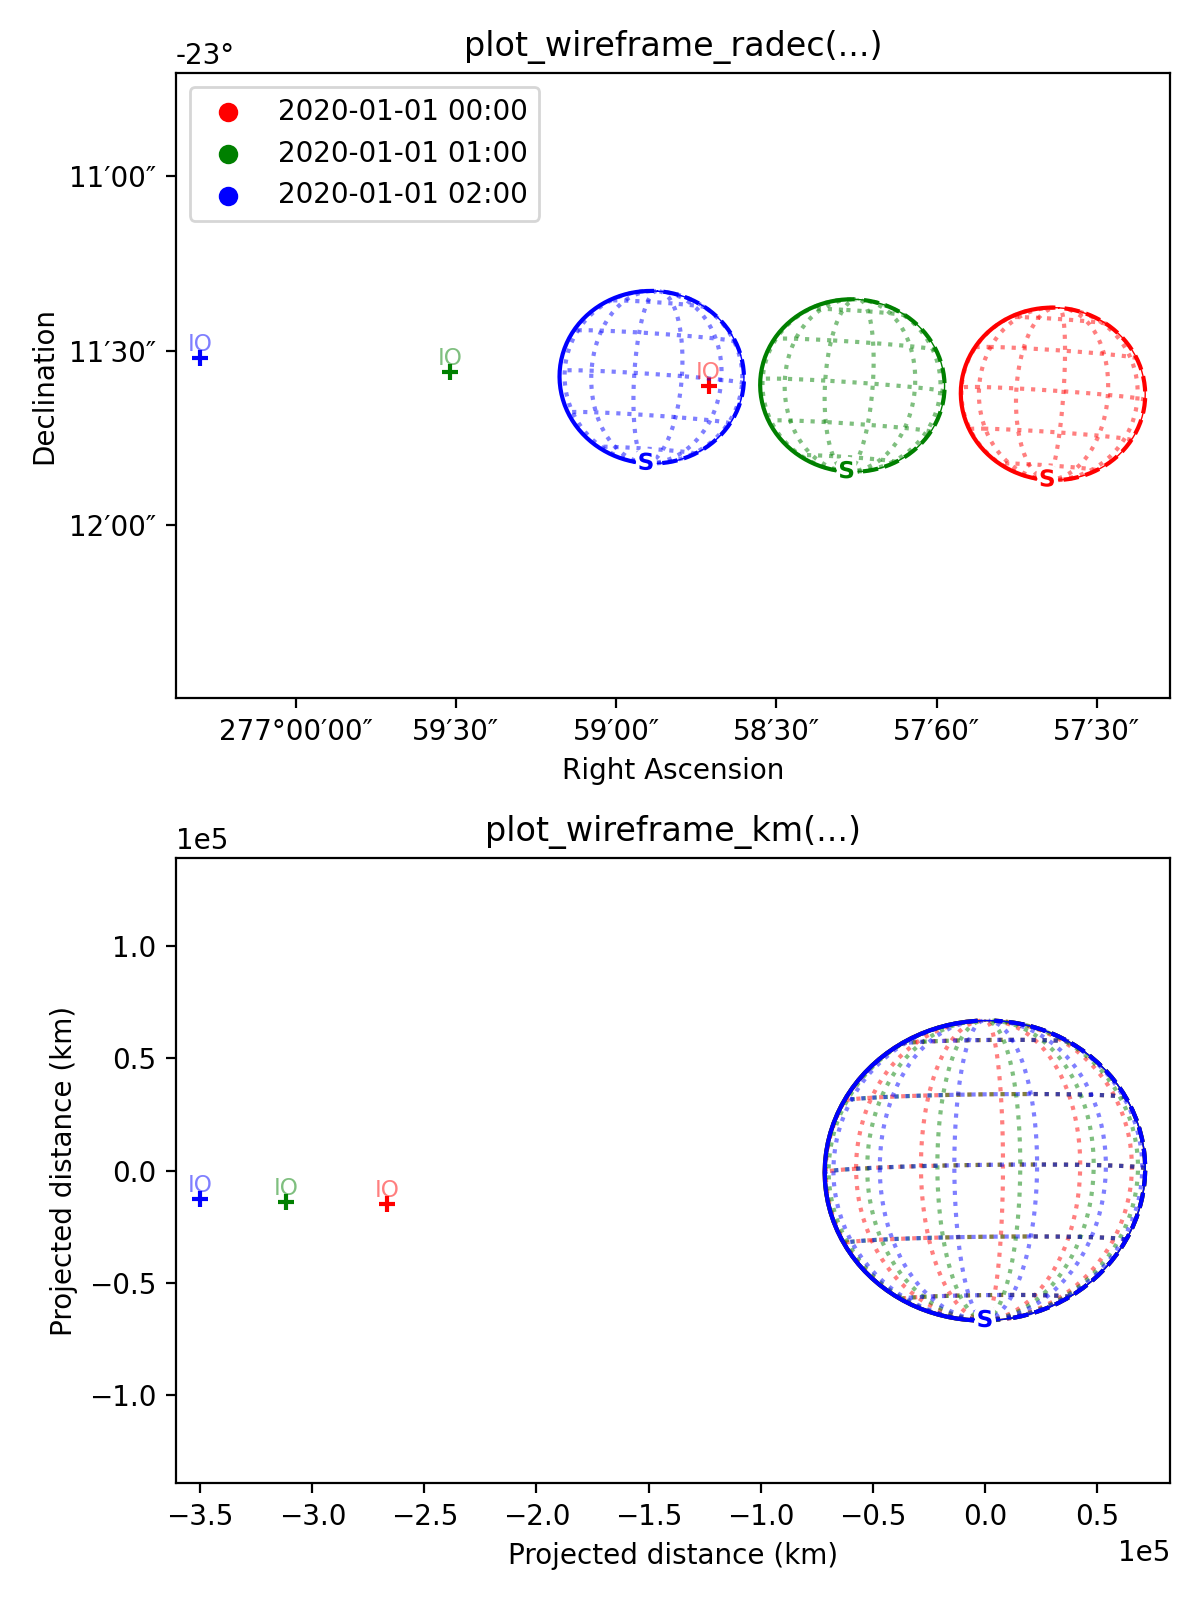
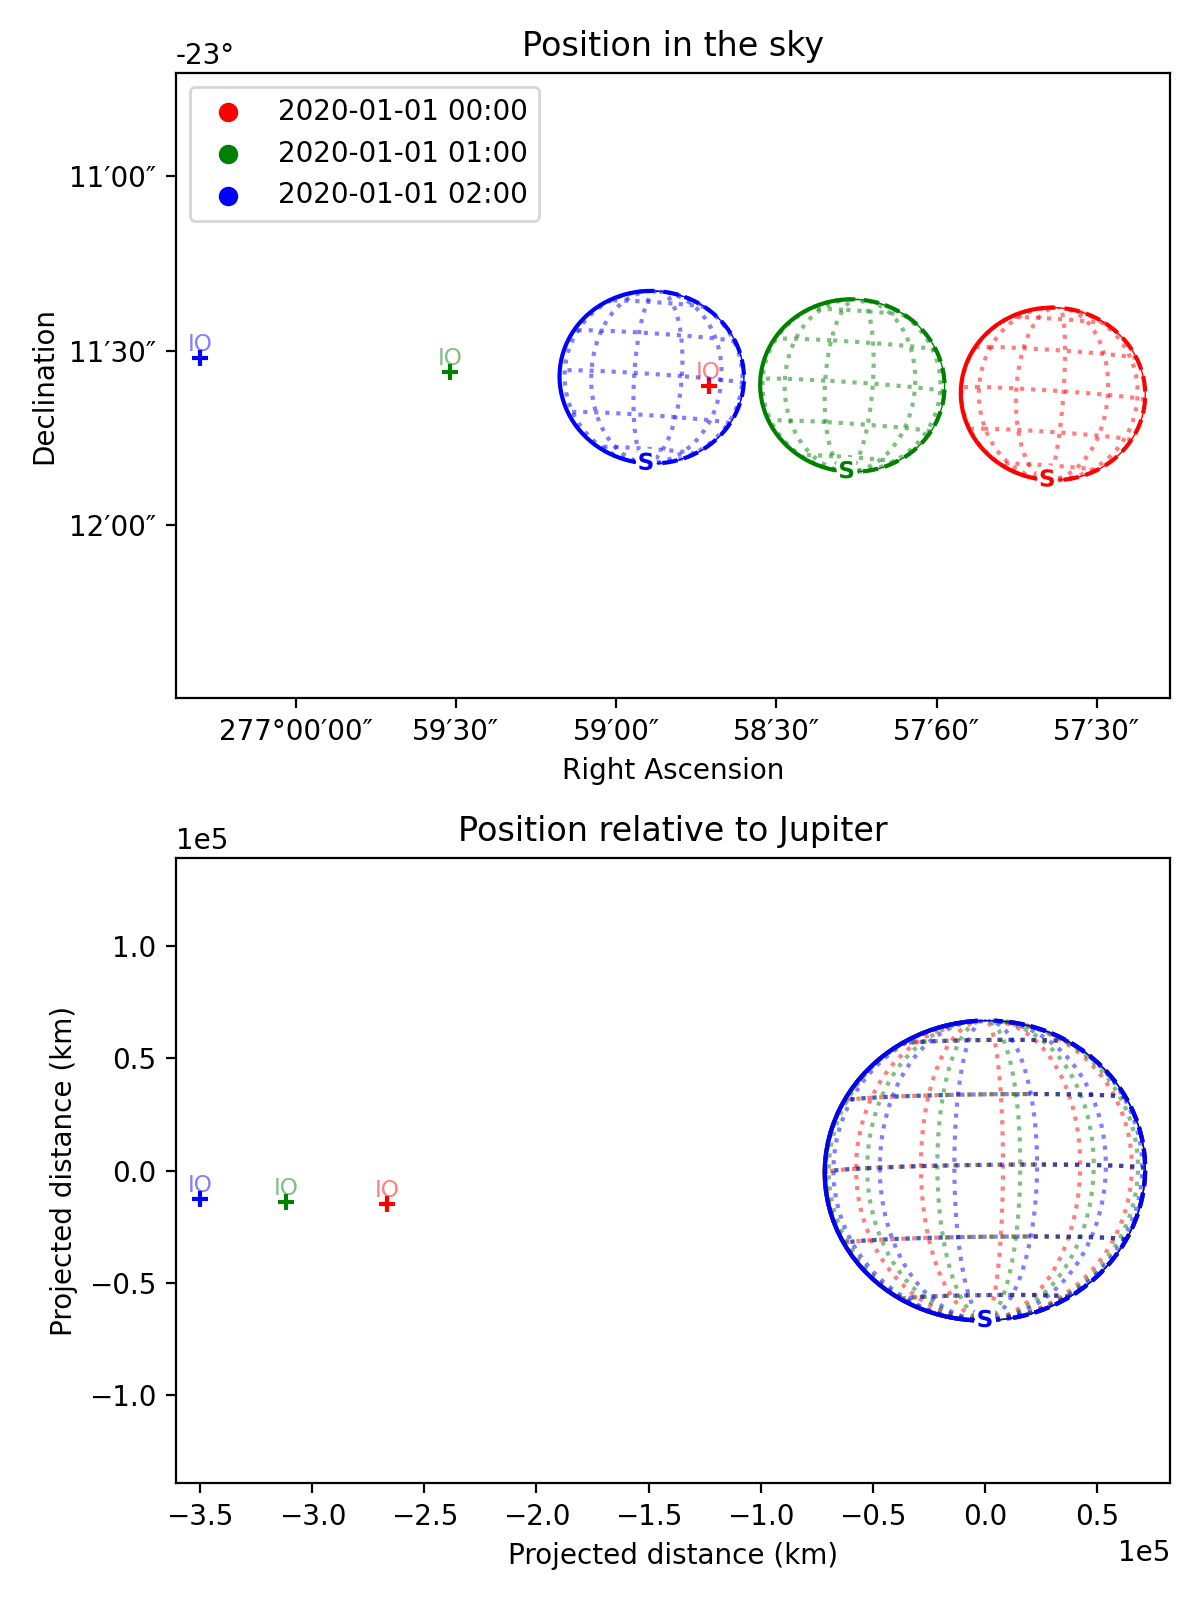
Documentation
Closes #8

Changed region(s): [[0.37, 0.5, 0.74, 0.5312], [0.4008, 0.0, 0.6783, 0.0312]]

diff --git a/examples/general_python_api.py b/examples/general_python_api.py
@@ -1,14 +1,21 @@
 #!/usr/bin/env python3
 # -*- coding: utf-8 -*-
-"""Simple example script"""
+"""
+Script used to generate example plots on 
+https://planetmapper.readthedocs.io/en/latest/general_python_api.html
+"""
 import os
 import matplotlib.pyplot as plt
+import numpy as np
 import planetmapper
 import planetmapper.data_loader
 
 PLOT_DIRECTORY = '../docs/images'
 
-if False:
+# Code for each plot is wrapped in an `if True` block for easy organisation and toggling
+
+
+if True:
     body = planetmapper.Body('saturn', '2020-01-01')
     fig, ax = plt.subplots(figsize=(6, 4), dpi=200)
     body.plot_wireframe_radec(ax)
@@ -17,7 +24,7 @@ if False:
     plt.close(fig)
 
 
-if False:
+if True:
     body = planetmapper.Body('neptune', '2020-01-01')
 
     # Add Triton to any wireframe plots
@@ -54,12 +61,44 @@ if True:
         body.plot_wireframe_km(ax_km, color=c)
 
         # Plot some blank data with the correct colour to go on the legend
-        ax_radec.scatter(float('nan'), float('nan'), color=c, label=date)
+        ax_radec.scatter(np.nan, np.nan, color=c, label=date)
+
     ax_radec.legend(loc='upper left')
 
-    ax_radec.set_title('plot_wireframe_radec(...)')
-    ax_km.set_title('plot_wireframe_km(...)')
+    ax_radec.set_title('Position in the sky')
+    ax_km.set_title('Position relative to Jupiter')
 
     fig.tight_layout()
     fig.savefig(os.path.join(PLOT_DIRECTORY, 'jupiter_wireframes.png'))
+    plt.close(fig)
+
+
+if True:
+    observation = planetmapper.Observation('../data/europa.fits.gz')
+
+    # Set the disc position
+    observation.set_plate_scale_arcsec(12.25e-3)
+    observation.set_disc_params(x0=110, y0=104)
+
+    fig, ax = plt.subplots(figsize=(6, 5), dpi=200)
+    observation.plot_backplane_img('LON-GRAPHIC', ax=ax)
+
+    fig.tight_layout()
+    fig.savefig(os.path.join(PLOT_DIRECTORY, 'europa_backplane.png'))
+    plt.close(fig)
+
+if True:
+    # Create an object representing how Jupiter would appear in a 50x50 pixel image
+    # taken by JWST at a specific time
+    body = planetmapper.BodyXY('jupiter', utc='2024-01-01', observer='JWST', sz=50)
+    body.set_disc_params(x0=25, y0=25, r0=20)
+
+    fig, ax = plt.subplots(figsize=(6, 5), dpi=200)
+
+    body.plot_backplane_img('RADIAL-VELOCITY', ax=ax)
+
+    radial_velocities = body.get_backplane_img('RADIAL-VELOCITY')
+    print(f'Average radial velocity: {np.nanmean(radial_velocities):.2f} km/s')
+    fig.tight_layout()
+    fig.savefig(os.path.join(PLOT_DIRECTORY, 'jupiter_backplane.png'))
     plt.close(fig)

diff --git a/tests/test_outputs.py b/tests/test_outputs.py
@@ -48,7 +48,7 @@ class TestBody(unittest.TestCase):
 
     def test_illumination(self):
         output = self.obj.illumination_angles_from_lonlat(1, 2)
-        expected = (0.0033531475561347644, 0.009694273924622665, 0.006341366070869211)
+        expected = (11.007734089805565, 31.824423998504553, 20.81747680519847)
         self.assertTrue(np.allclose(output, expected))
         self.assertTrue(self.obj.test_if_lonlat_illuminated(5, 6))
         self.assertFalse(self.obj.test_if_lonlat_illuminated(5, 180))

diff --git a/planetmapper/body.py b/planetmapper/body.py
@@ -759,7 +759,7 @@ class Body(SpiceBase):
         phase, incdnc, emissn = self._illumination_angles_from_targvec_radians(
             self.lonlat2targvec(lon, lat)
         )
-        return np.deg2rad(phase), np.deg2rad(incdnc), np.deg2rad(emissn)
+        return np.rad2deg(phase), np.rad2deg(incdnc), np.rad2deg(emissn)
 
     def _azimuth_angle_from_gie_radians(self, phase_radians: Numeric,incidence_radians:Numeric, emission_radians:Numeric) -> Numeric:
         # Based on Henrik's code at:

diff --git a/docs/general_python_api.rst b/docs/general_python_api.rst
@@ -2,15 +2,45 @@ General Python API
 ******************
 This page shows some simple examples of using the PlanetMapper in Python code. For more details, see the full :ref:`API documentation <api>`.
 
-.. hint::
+.. note::
     The Python script used to generate the figures shown on this page can be found `here <https://github.com/ortk95/planetmapper/blob/main/planetmapper/examples/general_python_api.py>`_.
 
-Wireframe plots
+Coordinate conversions
 ======================
-'Wireframe' plots showing the geometry of target bodies can be created quickly and easily using the :func:`planetmapper.Body.plot_wireframe_radec` command: ::
+Coordinate conversions can easily be performed using functions such as :func:`planetmapper.Body.lonlat2radec` to calculate the sky coordinates corresponding to a planetographic longitude/latitude coordinate on the surface of the target. 
+
+This code shows an example of using some of the functions in :class:`planetmapper.Body` to calculate information about observations of Jupiter from Mars: ::
 
     import planetmapper
+    import numpy as np
     import matplotlib.pyplot as plt
+
+
+    body = planetmapper.Body('jupiter', '2020-01-01', observer='mars')
+
+    coordinates = [(42, 0), (123, 45)]
+    for lon, lat in coordinates:
+        print(f'\nlongitude = {lon}°, latitude = {lat}°')
+        if body.test_if_lonlat_visible(lon, lat):
+            ra, dec = body.lonlat2radec(lon, lat)
+            print(f'  RA = {ra:.4f}°, Dec = {dec:.4f}°')
+            if body.test_if_lonlat_illuminated(lon, lat):
+                phase, incidence, emission = body.illumination_angles_from_lonlat(lon, lat)
+                print(f'  phase angle: {phase:.2f}°')     
+                print(f'  incidence angle: {phase:.2f}°')     
+                print(f'  emission angle: {phase:.2f}°')     
+        else:
+            print('  (Not visible)')
+
+.. hint::
+    The main classes in PlanetMapper are subclasses of each other, with :class:`planetmapper.SpiceBase` the parent class of :class:`planetmapper.Body` which is the parent of :class:`planetmapper.BodyXY` which is the parent of :class:`planetmapper.Observation`. 
+    
+    In Python, any functions defined in a parent class are available in any subclasses, so for example, you can use :func:`planetmapper.Observation.lonlat2radec` exactly the same way as you can use :func:`planetmapper.Body.lonlat2radec`.
+
+
+Wireframe plots
+===============
+'Wireframe' plots showing the geometry of target bodies can be created quickly and easily using the :func:`planetmapper.Body.plot_wireframe_radec` command: ::
 
     body = planetmapper.Body('saturn', '2020-01-01')
     body.plot_wireframe_radec()
@@ -70,7 +100,7 @@ A number of different wireframe plotting options are available:
         body.plot_wireframe_km(ax_km, color=c)
 
         # Plot some blank data with the correct colour to go on the legend
-        ax_radec.scatter(float('nan'), float('nan'), color=c, label=date)
+        ax_radec.scatter(np.nan, np.nan, color=c, label=date)
 
     ax_radec.legend(loc='upper left')
 
@@ -83,3 +113,55 @@ A number of different wireframe plotting options are available:
 .. image:: images/jupiter_wireframes.png
     :width: 600
     :alt: Plot of Jupiter and Io
+
+
+Observations and backplanes
+===========================
+:class:`planetmapper.Observation` objects can be created to record information about a specific observation. If the observed data is saved in a FITS file with appropriate header information, a :class:`planetmapper.Observation` object can be created using only the path to that file - target, date and observer information can all be derived automatically from the header. The example below creates an Observation object, and uses it to plot an image containing showing the longitude value of each pixel: ::
+
+    observation = planetmapper.Observation('../data/europa.fits.gz')
+
+    # Set the disc position
+    observation.set_plate_scale_arcsec(12.25e-3)
+    observation.set_disc_params(x0=110, y0=104)
+
+    observation.plot_backplane_img('LON-GRAPHIC')
+    plt.show()
+
+.. image:: images/europa_backplane.png
+    :width: 600
+    :alt: Plot of Europa
+
+A range of backplane images can be generated - see :ref:`default backplanes` for a list of the backplanes available by default. These backplanes can be saved to a FITS file for future use using :func:`planetmapper.Observation.save_observation`. A mapped version of the image and backplanes can likewise be saved using :func:`planetmapper.Observation.save_mapped_observation`: ::
+
+    observation = planetmapper.Observation('../data/europa.fits.gz')
+
+    # Set the disc position
+    observation.set_plate_scale_arcsec(12.25e-3)
+    observation.set_disc_params(x0=110, y0=104)
+
+    observation.save_observation('europa_navigated.fits')
+    observation.save_mapped_observation('europa_mapped.fits')
+
+
+Backplanes can also be generated for images which do not exist using :class:`planetmapper.BodyXY`: ::
+    
+    # Create an object representing how Jupiter would appear in a 50x50 pixel image
+    # taken by JWST at a specific time
+    body = planetmapper.BodyXY('jupiter', utc='2024-01-01', observer='JWST', sz=50)
+    body.set_disc_params(x0=25, y0=25, r0=20)
+
+    fig, ax = plt.subplots(figsize=(6, 5), dpi=200)
+    body.plot_backplane_img('RADIAL-VELOCITY',ax=ax)
+    fig.tight_layout()
+    plt.show()
+
+    # Backplane images can also be accessed and manipulated directly
+    radial_velocities = body.get_backplane_img('RADIAL-VELOCITY')
+    print('Average radial velocity:', np.nanmean(radial_velocities))
+
+    # Average radial velocity: 25.27 km/s
+    
+.. image:: images/jupiter_backplane.png
+    :width: 600
+    :alt: Plot of Jupiter's rotation
